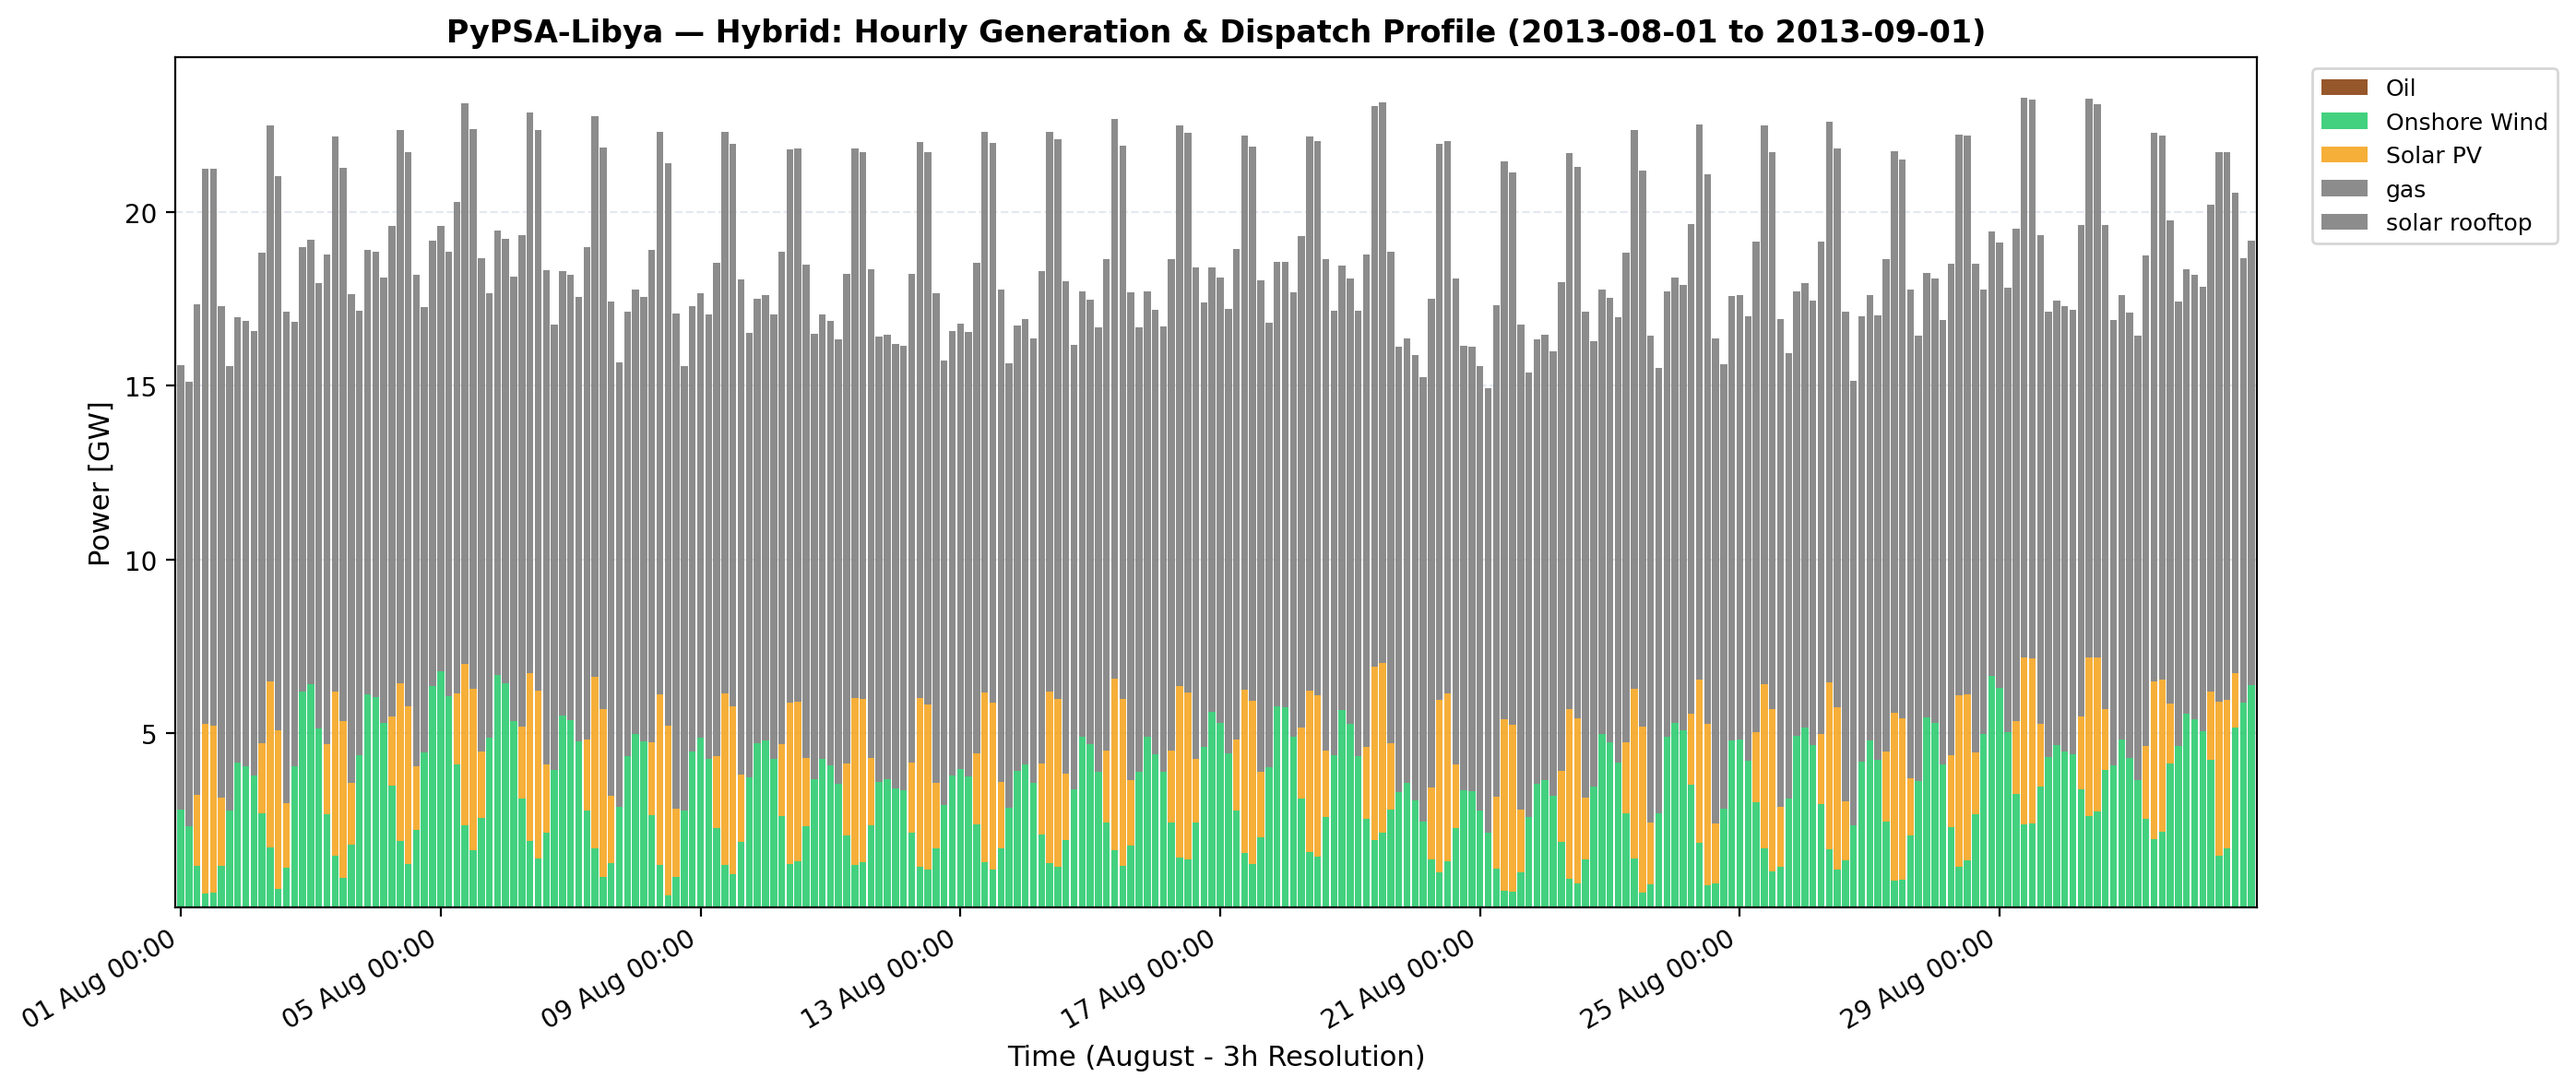
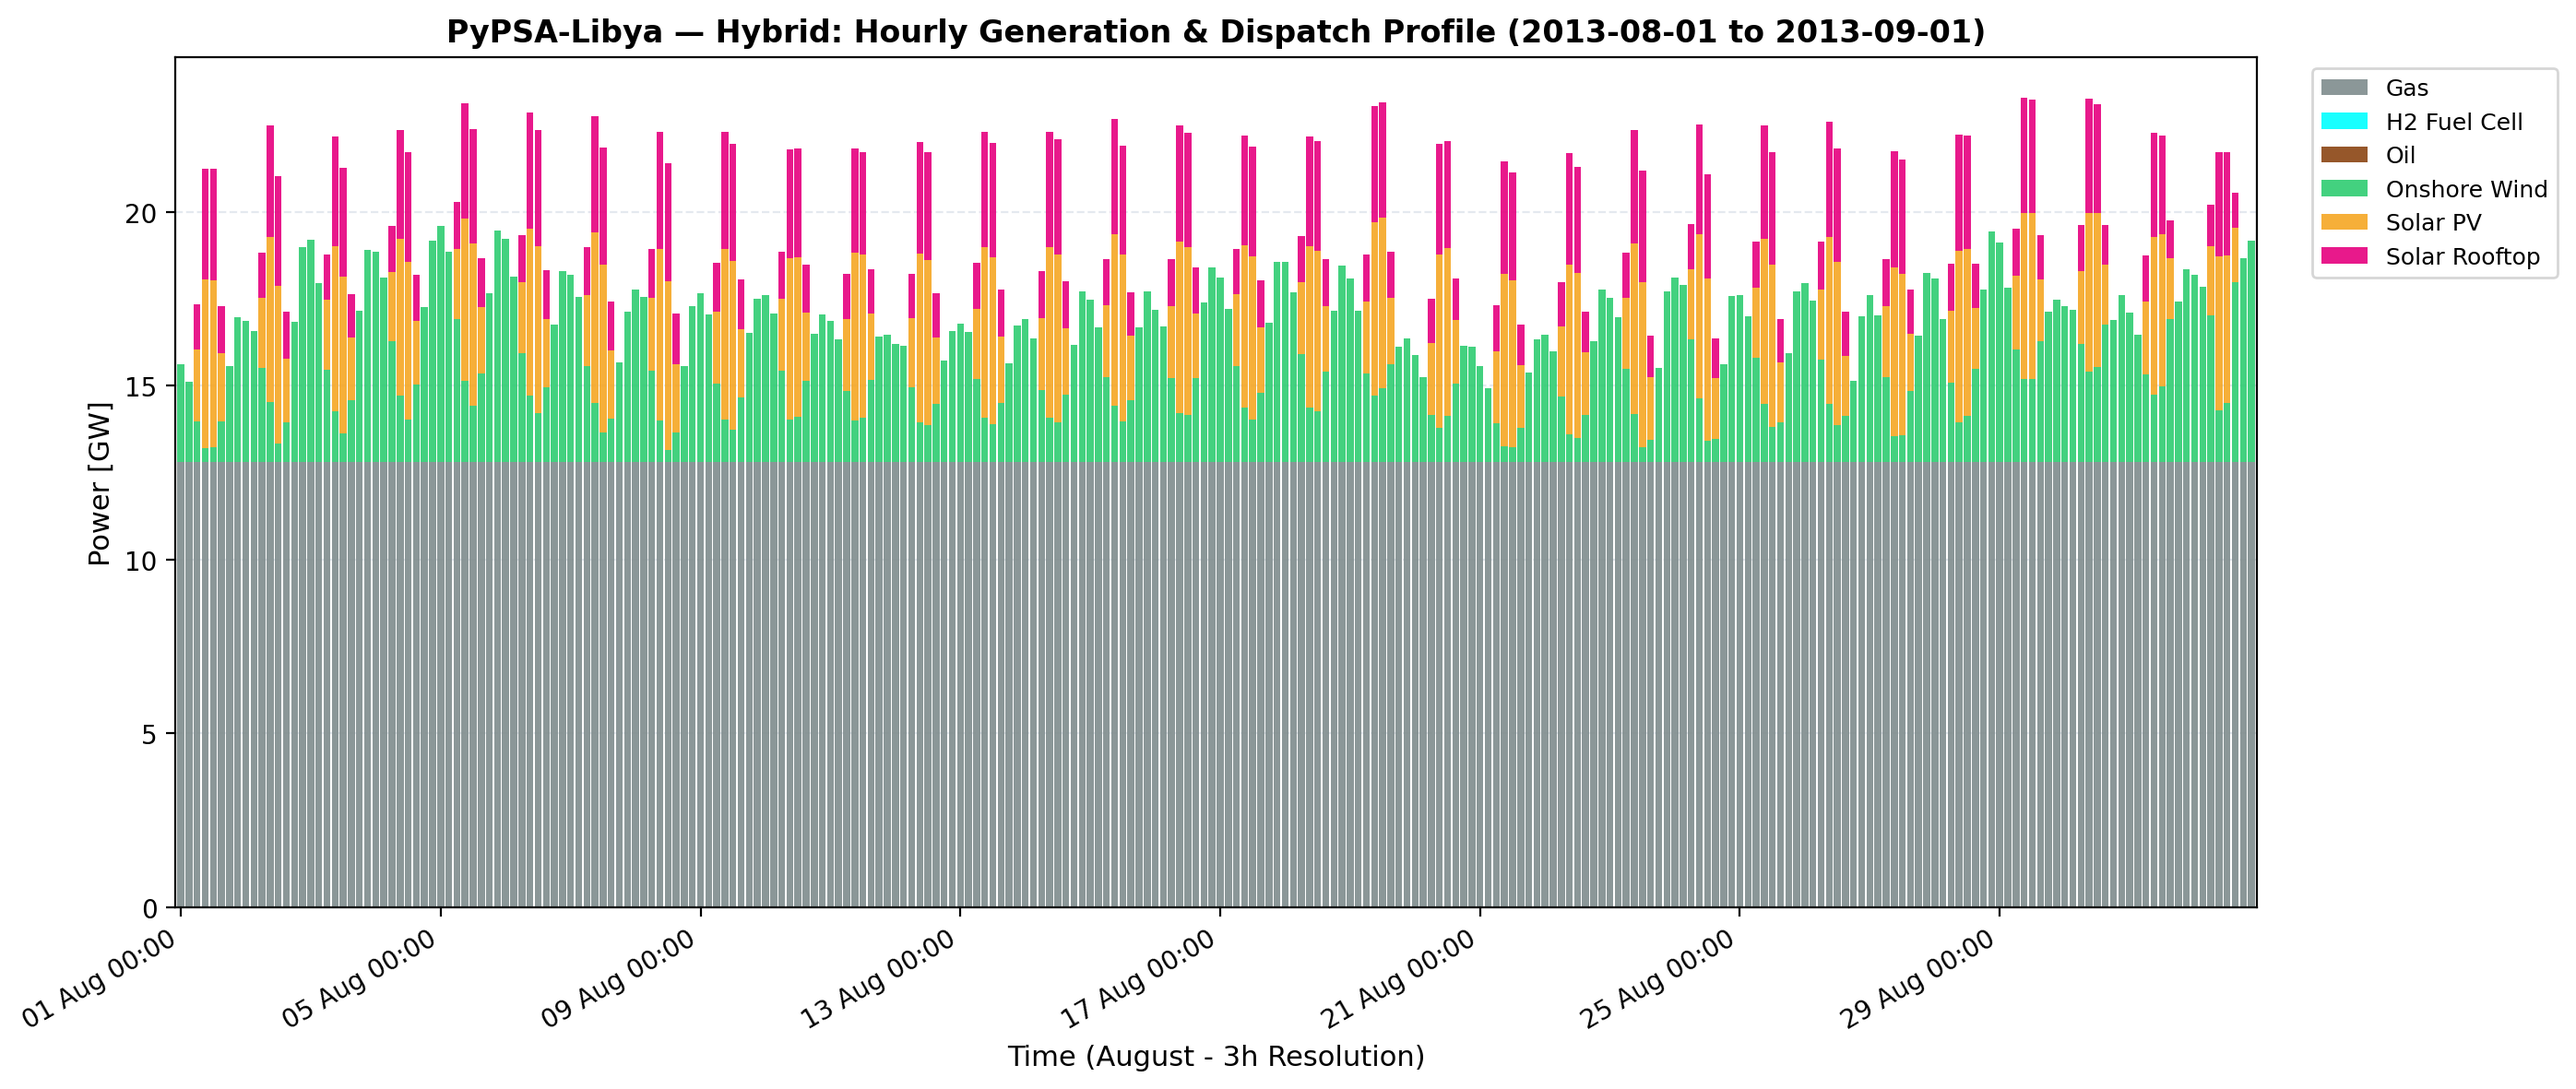
Add files via upload

Changed region(s): [[0.0623, 0.061, 0.9968, 0.4268], [0.0623, 0.6097, 0.8722, 0.8535]]

diff --git a/viz_outputs/libya_h2export_hybrid_emispr_100/Viz_compute_h2_hybrid.py b/viz_outputs/libya_h2export_hybrid_emispr_100/Viz_compute_h2_hybrid.py
@@ -34,11 +34,19 @@ from matplotlib.lines import Line2D
 # =====================================================================
 
 
+###### H2 export, year, 3-hrs, 36 clusters
+  
+# RESULTS = {
+#     "Hybrid": r"Output\libya_h2export_hybrid_emispr_100\3hrs\postnetworks\elec_s_36_ec_lcopt_Co2L-Ep-3h__2030_0.071_AB_70export.nc",
+# }
+
+
 ##### H2 export, year, 3-hrs 
   
 RESULTS = {
     "Hybrid": r"Output\libya_h2export_hybrid_emispr_100\3hrs\postnetworks\elec_s_12_ec_lcopt_Co2L-Ep-3h__2030_0.071_AB_70export.nc",
 }
+
 
 
 
@@ -1498,19 +1506,87 @@ print("\n" + "=" * 70)
 print("Generating August Monthly Dispatch Profiles for Scenarios (Matching Native Temporal Resolution)")
 print("=" * 70)
 
-def extract_total_dispatch(n: pypsa.Network) -> pd.DataFrame:
-    """Extracts total dispatch per carrier for all generators and storage units."""
-    # Generator dispatch
-    gen_dispatch = n.generators_t.p.T.groupby(n.generators.carrier.map(lambda c: CAPEX_CARRIER_MAP.get(str(c).strip(), str(c).strip()))).sum().T / 1e3  # Convert MW to GW
+# Comprehensive carrier mapping including common variations, casing, and new categories
+CAPEX_CARRIER_MAP.update({
+    # Hydrogen & Fuel Cell variations
+    "H2 Fuel Cell": "H2 Fuel Cell",
+    "h2 fuel cell": "H2 Fuel Cell",
+    "H2 fuel cell": "H2 Fuel Cell",
+    "H2 turbine": "H2 Fuel Cell",
+    "h2 turbine": "H2 Fuel Cell",
+    "fuel cell": "H2 Fuel Cell",
+    "fc": "H2 Fuel Cell",
     
-    # Storage discharging dispatch
-    if hasattr(n, "storage_units") and not n.storage_units.empty and not n.storage_units_t.p.empty:
+    # Gas variations (Capitalized as "Gas")
+    "gas": "Gas",
+    "Gas": "Gas",
+    "CCGT": "CCGT",
+    "OCGT": "OCGT",
+
+    # Solar Rooftop variations (Capitalized as "Solar Rooftop")
+    "solar rooftop": "Solar Rooftop",
+    "Solar Rooftop": "Solar Rooftop",
+    "solar_rooftop": "Solar Rooftop",
+    "solar": "Solar PV",
+    "Solar PV": "Solar PV",
+})
+
+CHART_COLORS.update({
+    "H2 Fuel Cell": "cyan",
+    "Gas": "#7f8c8d",               # Professional muted gray for Gas
+    "Solar Rooftop": "#e6007e",     # Distinct magenta/pink accent for Solar Rooftop
+    "Solar PV": "#f5a623",          # Standard Solar PV color for consistency
+})
+
+
+def extract_total_dispatch(n: pypsa.Network) -> pd.DataFrame:
+    """Extracts total dispatch per carrier for all generators, storage units, and fuel cell links."""
+    parts = []
+    
+    # Diagnostic print to check available carriers in this network file
+    if hasattr(n, "generators") and not n.generators.empty:
+        print(f"  [Diagnostics] Generator carriers found: {n.generators.carrier.unique().tolist()}")
+    if hasattr(n, "links") and not n.links.empty:
+        print(f"  [Diagnostics] Link carriers found: {n.links.carrier.unique().tolist()}")
+
+    # 1. Generator dispatch
+    if hasattr(n, "generators") and not n.generators.empty and hasattr(n, "generators_t") and not n.generators_t.p.empty:
+        gen_dispatch = n.generators_t.p.T.groupby(
+            n.generators.carrier.map(lambda c: CAPEX_CARRIER_MAP.get(str(c).strip(), CAPEX_CARRIER_MAP.get(str(c).strip().lower(), str(c).strip())))
+        ).sum().T / 1e3  # Convert MW to GW
+        parts.append(gen_dispatch)
+    
+    # 2. Storage units discharging dispatch
+    if hasattr(n, "storage_units") and not n.storage_units.empty and hasattr(n, "storage_units_t") and not n.storage_units_t.p.empty:
         su_dispatch = n.storage_units_t.p.clip(lower=0).T.groupby(
-            n.storage_units.carrier.map(lambda c: CAPEX_CARRIER_MAP.get(str(c).strip(), str(c).strip()))
+            n.storage_units.carrier.map(lambda c: CAPEX_CARRIER_MAP.get(str(c).strip(), CAPEX_CARRIER_MAP.get(str(c).strip().lower(), str(c).strip())))
         ).sum().T / 1e3
-        total_dispatch = pd.concat([gen_dispatch, su_dispatch], axis=1).T.groupby(level=0).sum().T
+        parts.append(su_dispatch)
+
+    # 3. Links dispatch (Fuel cells / H2 turbines injecting power via p1)
+    if hasattr(n, "links") and not n.links.empty and hasattr(n, "links_t") and hasattr(n.links_t, "p1") and not n.links_t.p1.empty:
+        def map_link_carrier(c):
+            c_str = str(c).strip()
+            c_lower = c_str.lower()
+            if "fuel cell" in c_lower or "turbine" in c_lower or c_lower in ["fc", "h2 fuel cell", "h2 turbine"]:
+                return "H2 Fuel Cell"
+            return CAPEX_CARRIER_MAP.get(c_str, CAPEX_CARRIER_MAP.get(c_lower, c_str))
+
+        link_mapped_carriers = n.links.carrier.map(map_link_carrier)
+        fuel_cell_links = [l for l in n.links.index if link_mapped_carriers[l] == "H2 Fuel Cell" and l in n.links_t.p1.columns]
+        
+        if fuel_cell_links:
+            # FIX: Negate p1 because PyPSA stores link outputs as negative values.
+            fc_dispatch = (-n.links_t.p1[fuel_cell_links]).clip(lower=0).T.groupby(
+                link_mapped_carriers[fuel_cell_links]
+            ).sum().T / 1e3
+            parts.append(fc_dispatch)
+
+    # Combine all dispatch sources
+    if parts:
+        total_dispatch = pd.concat(parts, axis=1).T.groupby(level=0).sum().T
     else:
-        total_dispatch = gen_dispatch
+        total_dispatch = pd.DataFrame(index=n.snapshots)
 
     return total_dispatch
 
@@ -1560,7 +1636,7 @@ for scenario_name, path in RESULTS.items():
     ax.set_title(f"PyPSA-Libya — {scenario_name}: Hourly Generation & Dispatch Profile ({start_date} to {end_date})", fontsize=12, fontweight="bold")
     ax.legend(loc="upper right", bbox_to_anchor=(1.15, 1.0), fontsize=9)
 
-    # Format X-ticks to display every 8th step (matching visualize_libya_year.py format)
+    # Format X-ticks to display every 8th step
     n_ticks = max(1, len(dispatch_aug) // 8)
     ticks = range(0, len(dispatch_aug), n_ticks)
     labels = [dispatch_aug.index[i].strftime("%d %b %H:%M") for i in ticks]
@@ -1580,7 +1656,7 @@ for scenario_name, path in RESULTS.items():
     print(f"  Saved August bar chart -> {out_path}")
     
 
-
+    
 # =====================================================================
 # EXTRA SECTION: GENERATE 4 DETAILED OUTCOMES PER H2 SCENARIO
 # (With Dynamic Threshold Color & Transparency Separation for Small vs Major Bars)
@@ -2335,7 +2411,6 @@ for scenario_name, export_path in RESULTS.items():
     net_ann_cost_pretax = (total_ann_cost_exp - co2_tax_annual_eur) - total_ann_cost_base
     lcoh_lhv_cost_pretax = (net_ann_cost_pretax / exported_h2_mwh) * H2_LHV_MWH_PER_KG
     selling_price = lcoh_lhv_cost_pretax + REVENUE_MARGIN   # price does NOT track the CO2 tax
-
 
     # # Dynamic Selling Price (+1 EUR/kg margin over Net LCOH LHV)
     # selling_price = lcoh_lhv_cost + REVENUE_MARGIN
